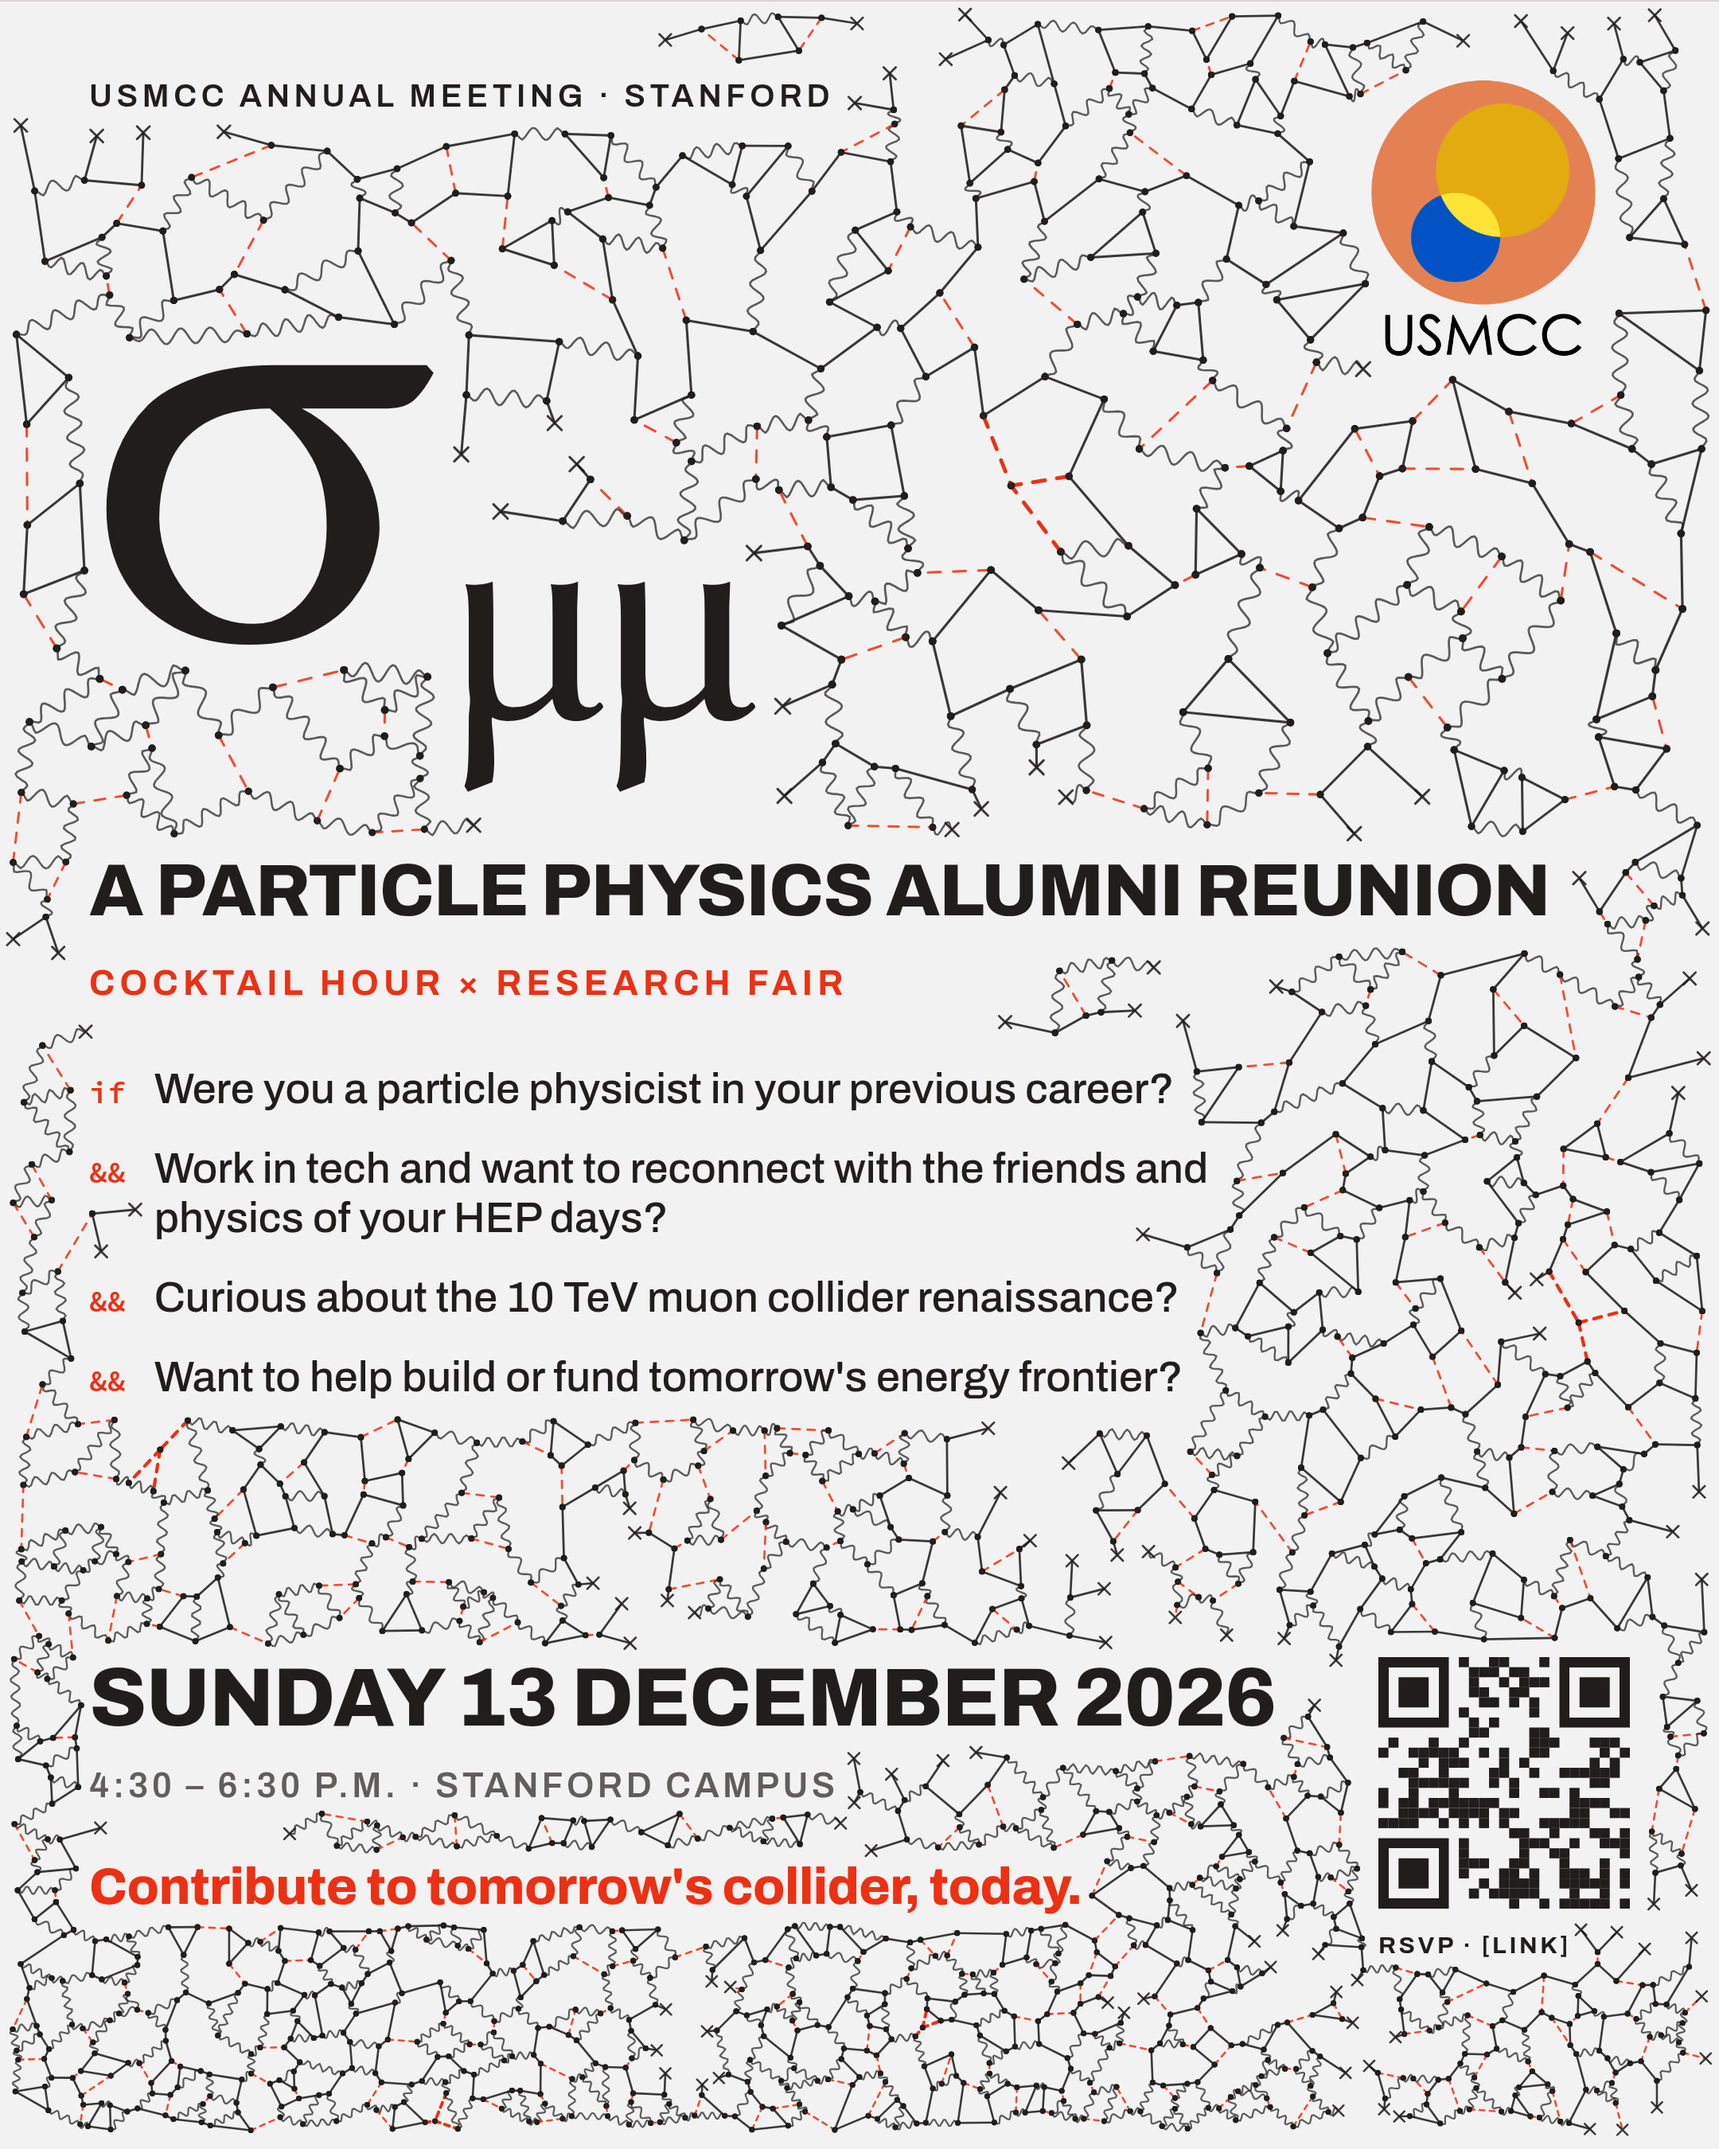
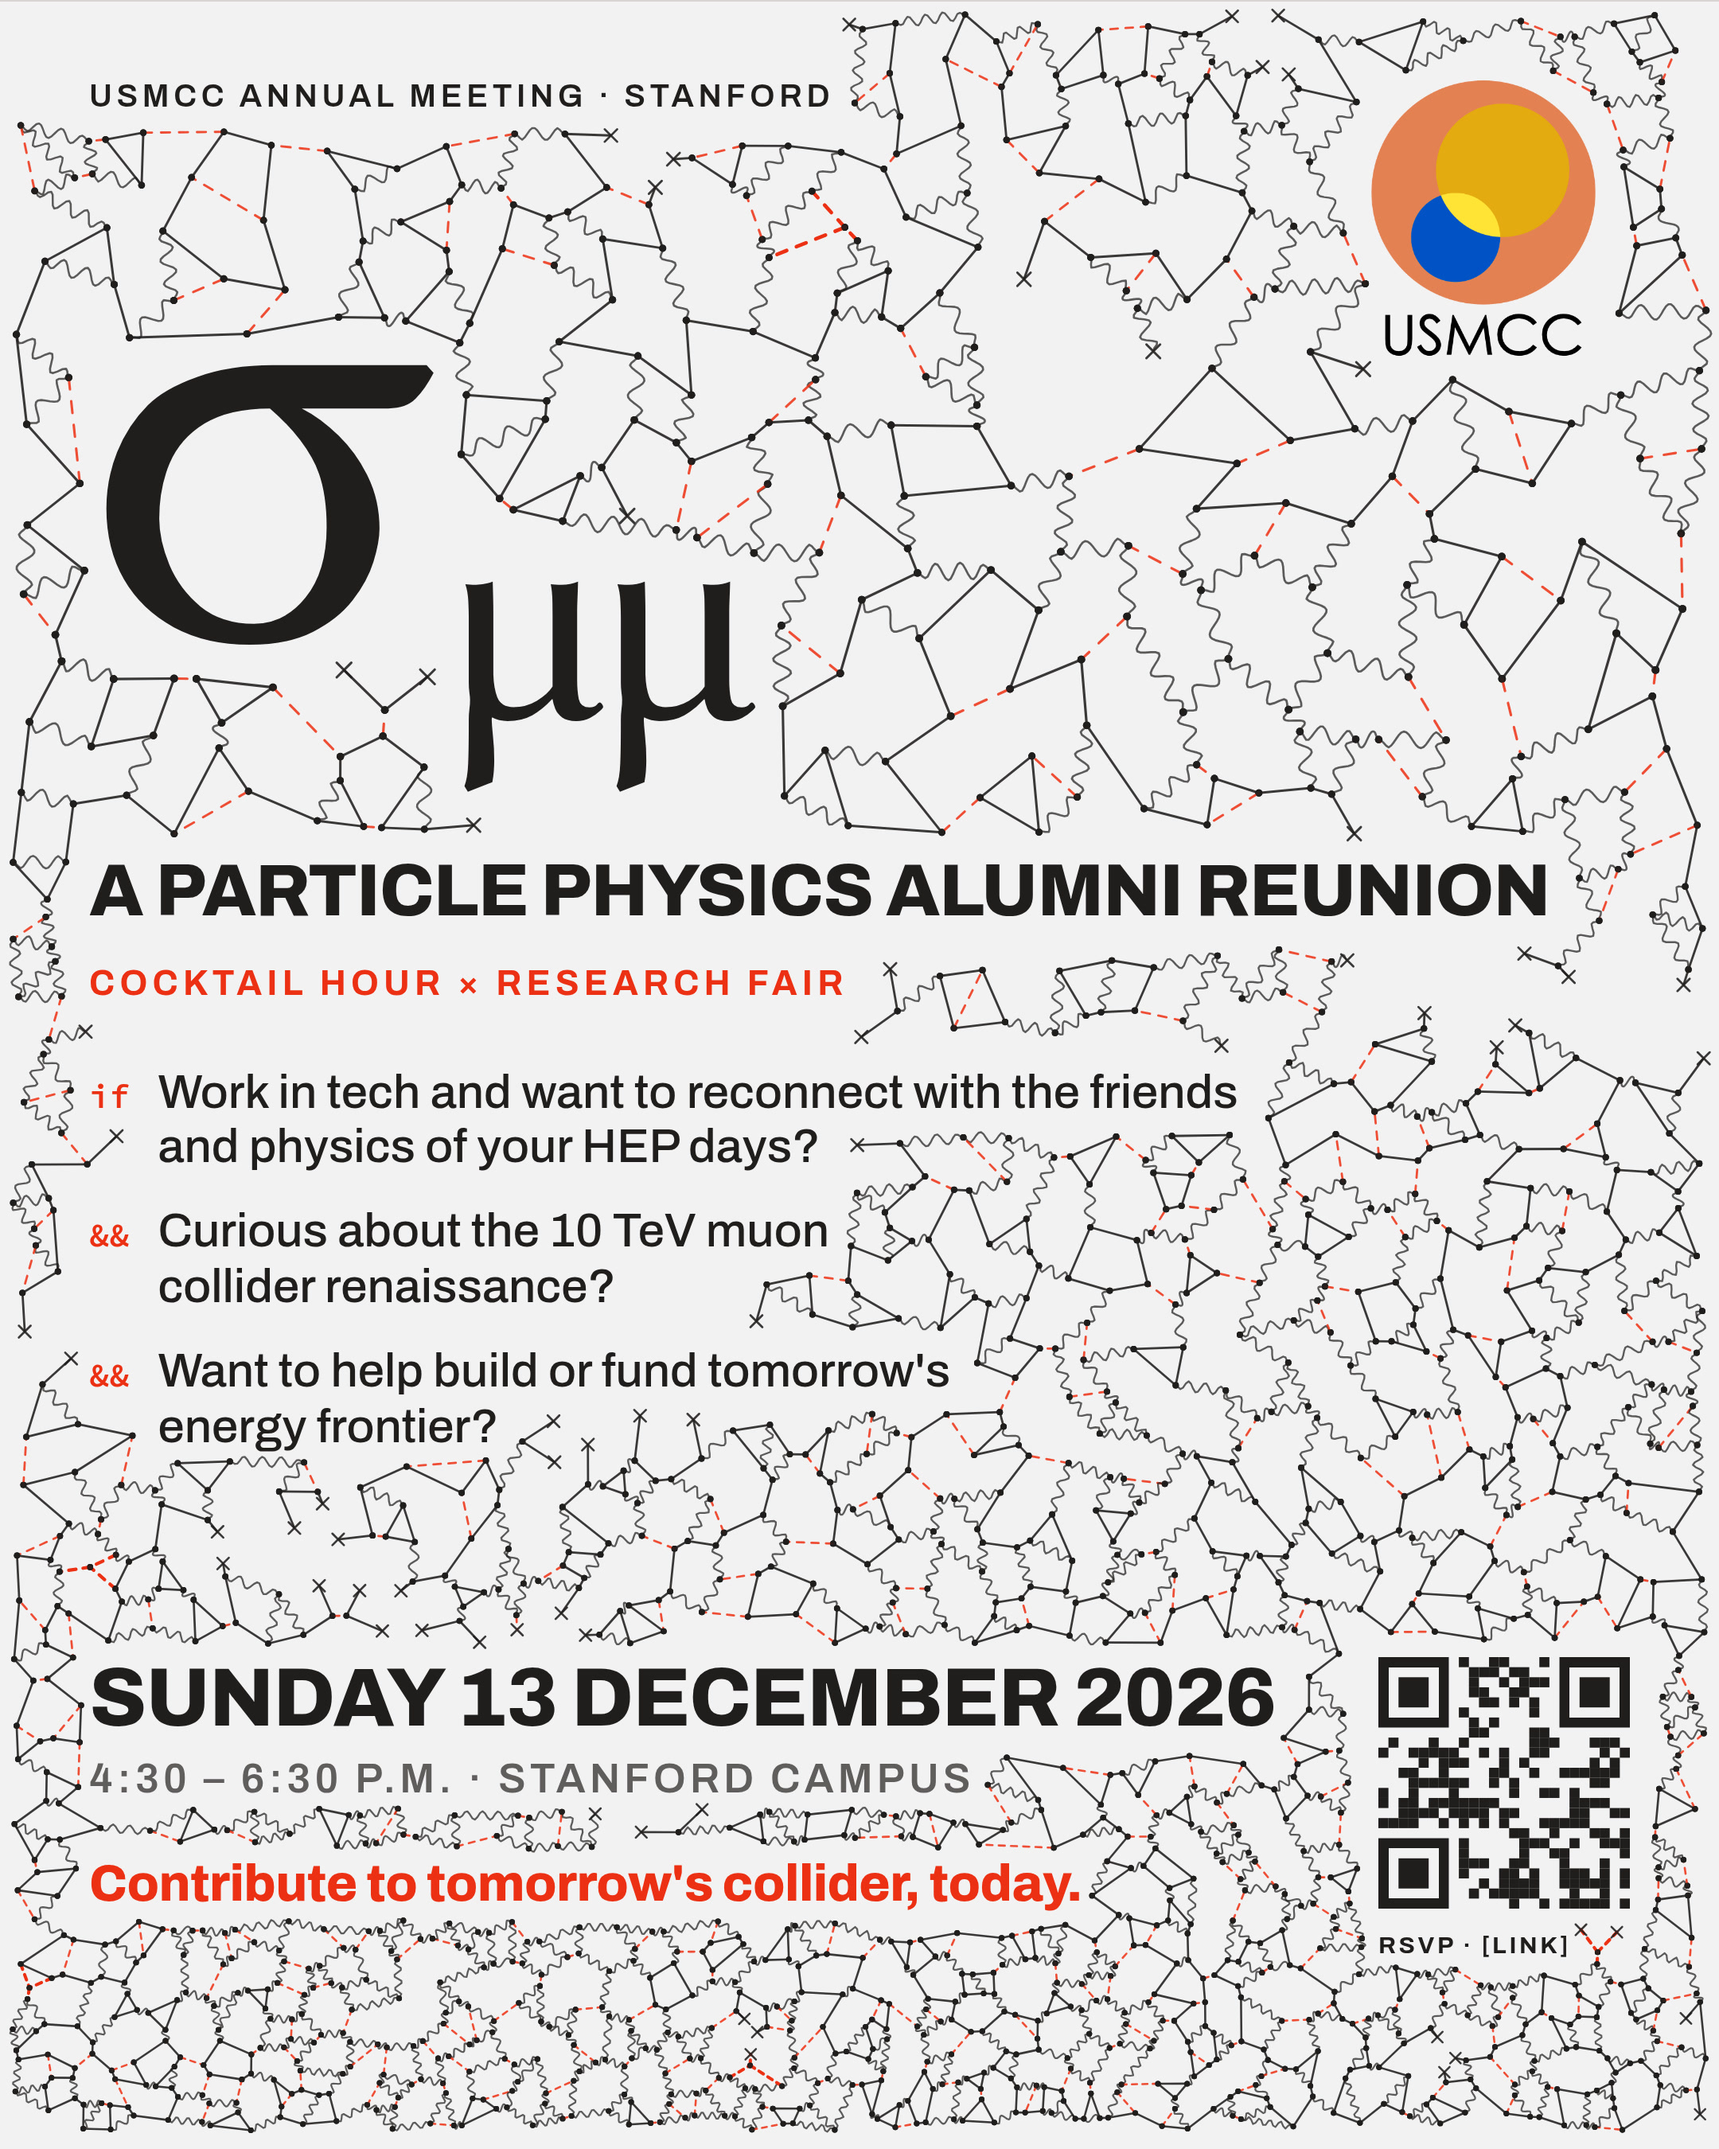
Trim the question list and tighten the date block
Drops the opening question and promotes the next to the if; questions go up
a size on both boards. Time and place moves up under the date (12px gap to
4px) and up a size with it.

Only the Instagram jpgs are re-rendered here, so the tabloid PNG and PDF in
out/ are a revision behind the canvas.

Claude-Session: https://claude.ai/code/session_01BjD9eBbTwFN6BRZeeU9uPk

diff --git a/design/Sigma Mu Mu Network.dc.html b/design/Sigma Mu Mu Network.dc.html
@@ -50,15 +50,14 @@ a:hover { color: var(--color-accent); }
 <div data-zone="text" style="position:absolute;left:64px;top:748px;font-size:18px;font-weight:700;letter-spacing:.14em;text-transform:uppercase;color:var(--color-accent);z-index:2">Cocktail hour × Research fair</div>
 
 <div data-zone="text" style="position:absolute;left:64px;top:822px;width:532px;display:flex;flex-direction:column;gap:16px;z-index:2">
-<div style="display:flex;gap:16px;align-items:baseline"><span style="flex:0 0 auto;font-family:'Source Code Pro',monospace;font-size:14px;font-weight:600;letter-spacing:0;color:var(--color-accent)">if</span><span style="font-size:21px;line-height:1.16;font-weight:500;text-wrap:pretty">Were you a particle physicist in your previous career?</span></div>
-<div style="display:flex;gap:16px;align-items:baseline"><span style="flex:0 0 auto;font-family:'Source Code Pro',monospace;font-size:14px;font-weight:600;letter-spacing:0;color:var(--color-accent)">&&</span><span style="font-size:21px;line-height:1.16;font-weight:500;text-wrap:pretty">Work in tech and want to reconnect with the friends and physics of your HEP days?</span></div>
-<div style="display:flex;gap:16px;align-items:baseline"><span style="flex:0 0 auto;font-family:'Source Code Pro',monospace;font-size:14px;font-weight:600;letter-spacing:0;color:var(--color-accent)">&&</span><span style="font-size:21px;line-height:1.16;font-weight:500;text-wrap:pretty">Curious about the 10 TeV muon collider renaissance?</span></div>
-<div style="display:flex;gap:16px;align-items:baseline"><span style="flex:0 0 auto;font-family:'Source Code Pro',monospace;font-size:14px;font-weight:600;letter-spacing:0;color:var(--color-accent)">&&</span><span style="font-size:21px;line-height:1.16;font-weight:500;text-wrap:pretty">Want to help build or fund tomorrow's energy frontier?</span></div>
+<div style="display:flex;gap:16px;align-items:baseline"><span style="flex:0 0 auto;font-family:'Source Code Pro',monospace;font-size:16px;font-weight:600;letter-spacing:0;color:var(--color-accent)">if</span><span style="font-size:24px;line-height:1.16;font-weight:500;text-wrap:pretty">Work in tech and want to reconnect with the friends and physics of your HEP days?</span></div>
+<div style="display:flex;gap:16px;align-items:baseline"><span style="flex:0 0 auto;font-family:'Source Code Pro',monospace;font-size:16px;font-weight:600;letter-spacing:0;color:var(--color-accent)">&&</span><span style="font-size:24px;line-height:1.16;font-weight:500;text-wrap:pretty">Curious about the 10 TeV muon collider renaissance?</span></div>
+<div style="display:flex;gap:16px;align-items:baseline"><span style="flex:0 0 auto;font-family:'Source Code Pro',monospace;font-size:16px;font-weight:600;letter-spacing:0;color:var(--color-accent)">&&</span><span style="font-size:24px;line-height:1.16;font-weight:500;text-wrap:pretty">Want to help build or fund tomorrow's energy frontier?</span></div>
 </div>
 
 <div data-zone="text" style="position:absolute;left:64px;top:1306px;width:782px;z-index:2">
 <div style="font-size:50px;line-height:1;font-weight:800;letter-spacing:-.015em;text-transform:uppercase">Sunday 13 December 2026</div>
-<div style="margin-top:12px;font-size:18px;font-weight:600;letter-spacing:.1em;text-transform:uppercase;color:var(--color-neutral-700)">4:30 – 6:30 p.m. · Stanford Campus</div>
+<div style="margin-top:4px;font-size:22px;font-weight:600;letter-spacing:.1em;text-transform:uppercase;color:var(--color-neutral-700)">4:30 – 6:30 p.m. · Stanford Campus</div>
 <div style="margin-top:26px;font-size:28px;font-weight:800;letter-spacing:-.01em;color:var(--color-accent)">Contribute to tomorrow's collider, today.</div>
 <div style="margin-top:16px;font-size:12px;line-height:1.5;font-weight:500;color:var(--color-neutral-700);max-width:700px;text-wrap:pretty">Cash bar with a sponsored drink-ticket program. Sponsorship keeps the mixer free for every industry guest — get in touch about sponsorship and recruiting opportunities.</div>
 </div>
@@ -89,15 +88,14 @@ a:hover { color: var(--color-accent); }
 <div data-zone="text" style="position:absolute;left:56px;top:600px;font-size:22px;font-weight:700;letter-spacing:.14em;text-transform:uppercase;color:var(--color-accent);z-index:2">Cocktail hour × Research fair</div>
 
 <div data-zone="text" style="position:absolute;left:56px;top:668px;width:740px;display:flex;flex-direction:column;gap:18px;z-index:2">
-<div style="display:flex;gap:18px;align-items:baseline"><span style="flex:0 0 auto;font-family:'Source Code Pro',monospace;font-size:19px;font-weight:600;letter-spacing:0;color:var(--color-accent)">if</span><span style="font-size:27px;line-height:1.16;font-weight:500;text-wrap:pretty">Were you a particle physicist in your previous career?</span></div>
-<div style="display:flex;gap:18px;align-items:baseline"><span style="flex:0 0 auto;font-family:'Source Code Pro',monospace;font-size:19px;font-weight:600;letter-spacing:0;color:var(--color-accent)">&&</span><span style="font-size:27px;line-height:1.16;font-weight:500;text-wrap:pretty">Work in tech and want to reconnect with the friends and physics of your HEP days?</span></div>
-<div style="display:flex;gap:18px;align-items:baseline"><span style="flex:0 0 auto;font-family:'Source Code Pro',monospace;font-size:19px;font-weight:600;letter-spacing:0;color:var(--color-accent)">&&</span><span style="font-size:27px;line-height:1.16;font-weight:500;text-wrap:pretty">Curious about the 10 TeV muon collider renaissance?</span></div>
-<div style="display:flex;gap:18px;align-items:baseline"><span style="flex:0 0 auto;font-family:'Source Code Pro',monospace;font-size:19px;font-weight:600;letter-spacing:0;color:var(--color-accent)">&&</span><span style="font-size:27px;line-height:1.16;font-weight:500;text-wrap:pretty">Want to help build or fund tomorrow's energy frontier?</span></div>
+<div style="display:flex;gap:18px;align-items:baseline"><span style="flex:0 0 auto;font-family:'Source Code Pro',monospace;font-size:21px;font-weight:600;letter-spacing:0;color:var(--color-accent)">if</span><span style="font-size:30px;line-height:1.16;font-weight:500;text-wrap:pretty">Work in tech and want to reconnect with the friends and physics of your HEP days?</span></div>
+<div style="display:flex;gap:18px;align-items:baseline"><span style="flex:0 0 auto;font-family:'Source Code Pro',monospace;font-size:21px;font-weight:600;letter-spacing:0;color:var(--color-accent)">&&</span><span style="font-size:30px;line-height:1.16;font-weight:500;text-wrap:pretty">Curious about the 10 TeV muon collider renaissance?</span></div>
+<div style="display:flex;gap:18px;align-items:baseline"><span style="flex:0 0 auto;font-family:'Source Code Pro',monospace;font-size:21px;font-weight:600;letter-spacing:0;color:var(--color-accent)">&&</span><span style="font-size:30px;line-height:1.16;font-weight:500;text-wrap:pretty">Want to help build or fund tomorrow's energy frontier?</span></div>
 </div>
 
 <div data-zone="text" style="position:absolute;left:56px;top:1040px;width:780px;z-index:2">
 <div style="font-size:52px;line-height:1;font-weight:800;letter-spacing:-.015em;text-transform:uppercase">Sunday 13 December 2026</div>
-<div style="margin-top:12px;font-size:22px;font-weight:600;letter-spacing:.1em;text-transform:uppercase;color:var(--color-neutral-700)">4:30 – 6:30 p.m. · Stanford Campus</div>
+<div style="margin-top:4px;font-size:26px;font-weight:600;letter-spacing:.1em;text-transform:uppercase;color:var(--color-neutral-700)">4:30 – 6:30 p.m. · Stanford Campus</div>
 <div style="margin-top:22px;font-size:32px;font-weight:800;letter-spacing:-.01em;color:var(--color-accent)">Contribute to tomorrow's collider, today.</div>
 </div>
 
